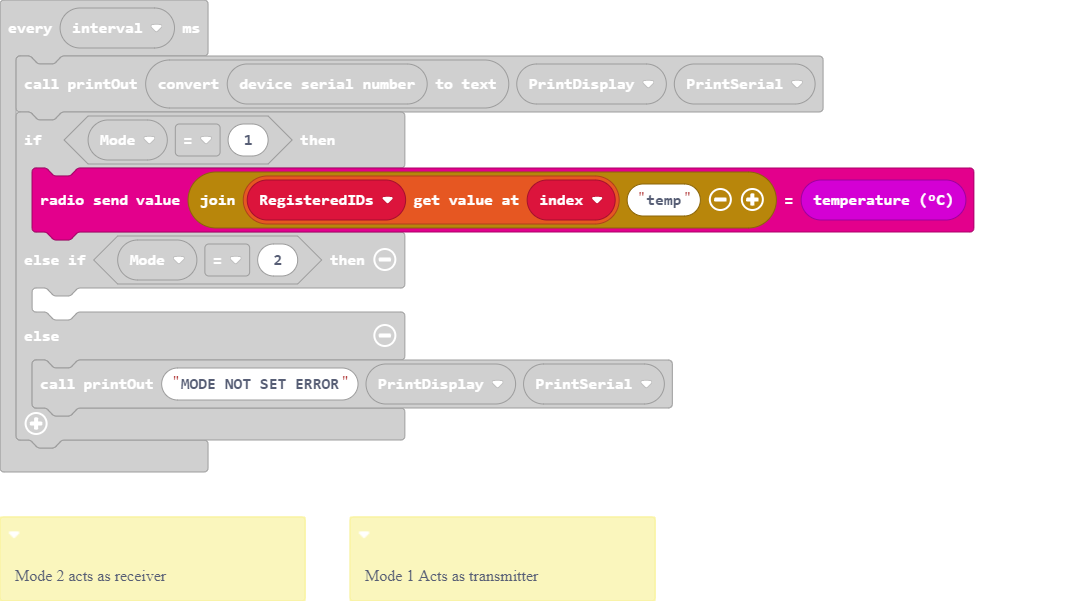
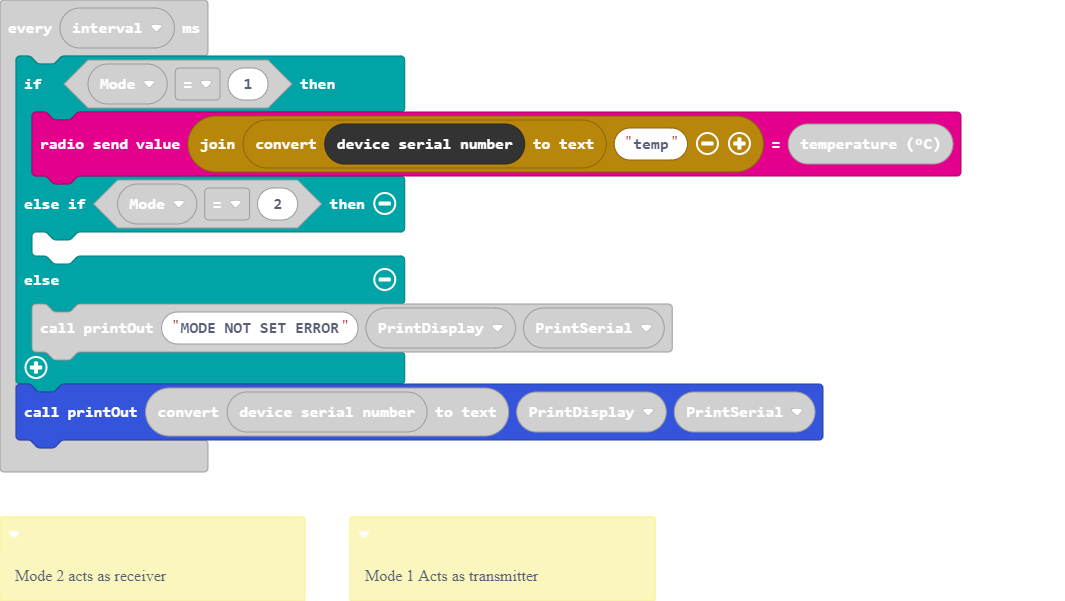
Update main.blocks, main.ts

diff --git a/main.ts b/main.ts
@@ -74,13 +74,12 @@ while (Mode == 0) {
     }
 }
 loops.everyInterval(interval, function () {
-    printOut(convertToText(control.deviceSerialNumber()), PrintDisplay, PrintSerial)
     if (Mode == 1) {
-        let index = 0
-        radio.sendValue("" + RegisteredIDs[index] + "temp", input.temperature())
+        radio.sendValue("" + convertToText(control.deviceSerialNumber()) + "temp", input.temperature())
     } else if (Mode == 2) {
     	
     } else {
         printOut("MODE NOT SET ERROR", PrintDisplay, PrintSerial)
     }
+    printOut(convertToText(control.deviceSerialNumber()), PrintDisplay, PrintSerial)
 })
